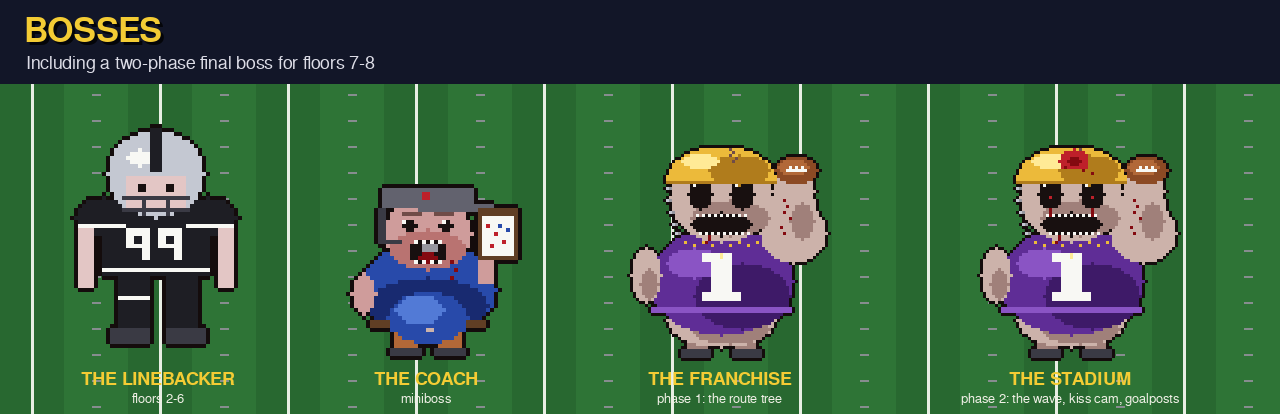
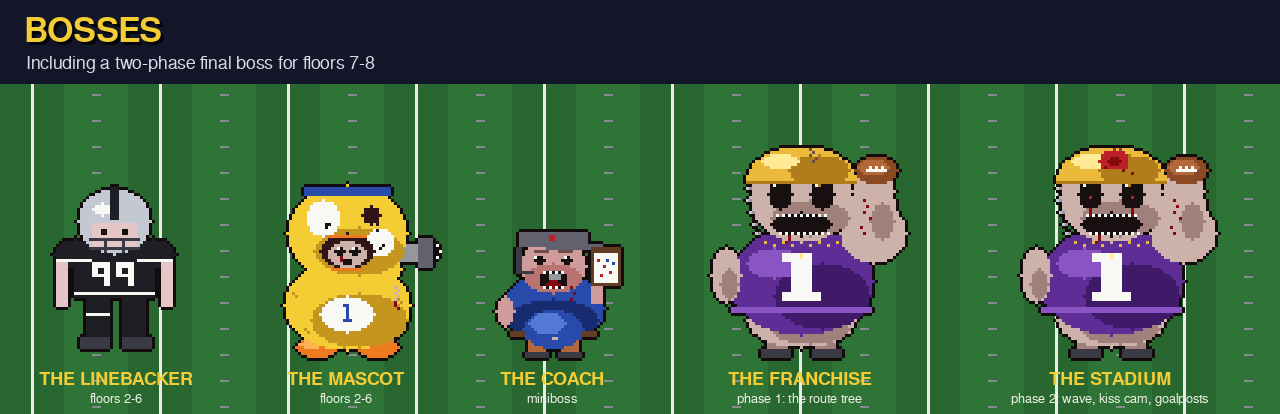
The Mascot: a mid-game boss with a T-shirt cannon, belly flops and a Spirit Squad
May replace Peep, The Dark One or Polycephalus on floors 2-6 (menu slider).
Sheds smaller Mascots at 75/50/25% health, uses the Linebacker theme, gets
stadium banners, and is spawnable with 'gridiron spawn mascotboss'.

Claude-Session: https://claude.ai/code/session_01SDCta5dxMaVUtMhVsYXLuG

diff --git a/tools/make_entities.py b/tools/make_entities.py
@@ -567,6 +567,67 @@ def franchise(pose, frame=0):
     return rows_of(outline(g))
 
 
+# --- The Mascot (boss, 64x64): a giant mascot costume, the gaper inside staring out of its mouth ---
+def mascot_boss(pose, frame=0):
+    g = blank(64)
+    bob = frame % 2
+    squash = {"land": 6, "jump": -6}.get(pose, 0)
+    lift = 8 if pose == "jump" else 0
+    by = 40 + bob + squash - lift
+    # big orange feet
+    if pose != "jump":
+        ellipse(g, 22, 58, 7, 3.5, "O")
+        ellipse(g, 42, 58, 7, 3.5, "O")
+        ellipse(g, 20, 57, 4, 1.5, "P")
+    # furry, mangy body
+    ellipse(g, 32, by + 4, 21, 15, "Y")
+    ellipse(g, 36, by + 9, 16, 9, "y")                                    # shade (no ink)
+    for x, y in ((14, by), (49, by + 2), (18, by + 12), (46, by + 13), (30, by + 17)):
+        put(g, [(x, y), (x + 1, y + 1)], "y")                                # fur tufts
+    ellipse(g, 32, by + 7, 9, 6, "W")                                     # belly patch with a number
+    put(g, [(31, by + 4), (32, by + 4), (32, by + 5), (32, by + 6), (32, by + 7), (32, by + 8), (31, by + 9),
+            (32, by + 9), (33, by + 9)], "B")
+    # torn seam on the side: flesh and blood inside
+    put(g, [(48, by - 2), (49, by - 1), (48, by), (49, by + 1), (48, by + 2)], "q")
+    put(g, [(48, by + 3), (48, by + 4), (49, by + 5)], "i")
+    # arms: pom-pom paws, or the t-shirt cannon raised
+    if pose == "shoot":
+        rect(g, 46, by - 16, 58, by - 11, "m")                            # cannon held high
+        rect(g, 56, by - 18, 60, by - 9, "N")
+        ellipse(g, 46, by - 8, 4, 4, "Y")
+        put(g, [(62, by - 16), (63, by - 14), (62, by - 12)], "W")         # puff
+    else:
+        up = 10 if pose in ("jump", "land") else 0
+        ellipse(g, 11, by + 2 - up, 5, 5, "Y")
+        ellipse(g, 53, by + 2 - up, 5, 5, "Y")
+    # the huge costume head
+    hy = by - 20
+    ellipse(g, 32, hy, 20, 16, "Y")
+    ellipse(g, 36, hy + 6, 15, 8, "y")
+    rect(g, 18, hy - 15, 46, hy - 13, "B")                                # team headband
+    # googly eyes: one fine, one hanging off by a thread
+    ellipse(g, 24, hy - 5, 5.5, 6, "W")
+    put(g, [(25, hy - 3), (26, hy - 3), (25, hy - 2)], "e")
+    ellipse(g, 43, hy + 3 + bob, 4.5, 4.5, "W")                           # dangling
+    put(g, [(44, hy + 4 + bob), (43, hy + 5 + bob)], "e")
+    put(g, [(41, hy - 5), (42, hy - 3), (42, hy - 1)], "k")               # the thread
+    ellipse(g, 40, hy - 6, 3, 3, "D")                                     # the empty socket
+    # the costume's mouth gapes open: the gaper inside stares out
+    ellipse(g, 32, hy + 6, 9, 6, "D")
+    ellipse(g, 32, hy + 7, 6.5, 4.5, "q")
+    ellipse(g, 29.5, hy + 6, 1.6, 2, "e")
+    ellipse(g, 34.5, hy + 6, 1.6, 2, "e")
+    put(g, [(29, hy + 5), (34, hy + 5)], "W")
+    ellipse(g, 32, hy + 9.5, 1.4, 1, "e")
+    put(g, [(30, hy + 8), (30, hy + 9)], "i")
+    rect(g, 26, hy + 1, 38, hy + 1, "O")                                  # the beak, split open
+    rect(g, 27, hy + 12, 37, hy + 12, "O")
+    if pose == "hurt":
+        for x, y in ((10, hy - 10), (54, hy - 6), (8, by + 6), (56, by + 10)):
+            put(g, [(x, y), (x + 1, y), (x, y + 1)], "Y")                   # fur flying off
+    return rows_of(outline(g))
+
+
 # --- The Linebacker (boss, 64x64) -----------------------------------------------
 def linebacker(pose, frame=0):
     """Rival-team linebacker: silver helmet, black #99 jersey, huge pads."""
@@ -690,6 +751,13 @@ ENTITIES = {
         anims={"Idle": ([0, 1], 10, True), "Wind": ([2], 1, True), "Throw": ([3], 1, True),
                "Audible": ([4], 1, True), "Slam": ([5], 1, True), "Rage": ([6, 7], 6, True),
                "RageWind": ([8], 1, True), "RageThrow": ([9], 1, True)},
+    ),
+    "bosses/gridiron_mascot_boss": dict(
+        size=64, pivot=(32, 60),
+        frames=[mascot_boss("idle", 0), mascot_boss("idle", 1), mascot_boss("shoot", 0), mascot_boss("shoot", 1),
+                mascot_boss("jump", 0), mascot_boss("land", 0), mascot_boss("hurt", 0)],
+        anims={"Idle": ([0, 1], 10, True), "Shoot": ([2, 3], 6, True), "Jump": ([4], 1, True),
+               "Land": ([5], 1, True), "Hurt": ([6, 0], 4, False)},
     ),
     "bosses/gridiron_linebacker": dict(
         size=64,

diff --git a/tools/make_showcase.py b/tools/make_showcase.py
@@ -159,15 +159,17 @@ def enemies_sheet():
 
 
 def bosses_sheet():
-    lb = px(frame(GFX / "bosses/gridiron_linebacker.png", 0, 64), 4)
+    lb = px(frame(GFX / "bosses/gridiron_linebacker.png", 0, 64), 3)
+    mb = px(frame(GFX / "bosses/gridiron_mascot_boss.png", 2, 64), 3)
     fr1 = px(frame(GFX / "bosses/gridiron_franchise.png", 2, 80), 3)
     fr2 = px(frame(GFX / "bosses/gridiron_franchise.png", 8, 80), 3)
-    coach = px(frame(GFX / "monsters/gridiron_coach.png", 2, 48), 4)
+    coach = px(frame(GFX / "monsters/gridiron_coach.png", 2, 48), 3)
     body = turf(1280, 330)
     d = ImageDraw.Draw(body)
-    for img, x, name, blurb in ((lb, 30, "THE LINEBACKER", "floors 2-6"), (coach, 330, "THE COACH", "miniboss"),
-                                (fr1, 600, "THE FRANCHISE", "phase 1: the route tree"),
-                                (fr2, 950, "THE STADIUM", "phase 2: the wave, kiss cam, goalposts")):
+    for img, x, name, blurb in ((lb, 20, "THE LINEBACKER", "floors 2-6"), (mb, 250, "THE MASCOT", "floors 2-6"),
+                                (coach, 480, "THE COACH", "miniboss"),
+                                (fr1, 680, "THE FRANCHISE", "phase 1: the route tree"),
+                                (fr2, 990, "THE STADIUM", "phase 2: wave, kiss cam, goalposts")):
         body.alpha_composite(img, (x, 280 - img.height))
         d.text((x + img.width // 2, 286), name, font=font(18), fill=GOLD, anchor="ma")
         d.text((x + img.width // 2, 308), blurb, font=font(13, False), fill=(240, 240, 230), anchor="ma")

diff --git a/tools/make_sprites.py b/tools/make_sprites.py
@@ -392,7 +392,9 @@ def ellipse(g, cx, cy, rx, ry, ch):
 
 def put(g, points, ch):
     for x, y in points:
-        g[round(y)][round(x)] = ch
+        x, y = round(x), round(y)
+        if 0 <= y < len(g) and 0 <= x < len(g[0]):        # quietly skip pixels off the canvas
+            g[y][x] = ch
 
 
 def outline(g, ch="K"):

diff --git a/README.md b/README.md
@@ -8,7 +8,7 @@
 
 **Gridiron** suits Isaac up for football. Every item is real gear with its own mechanic: no reskins, no stat-only filler, nothing replaced.
 Tackle with the helmet, deflect with the pads, catch with the gloves, punt with the tee, and when you're wearing three pieces you're **Suited Up**.
-Then take on a rival Linebacker, a stadium full of grotesque football enemies, and **The Franchise**.
+Then take on a rival Linebacker, a giant Mascot, a stadium full of grotesque football enemies, and **The Franchise**.
 
 **[⬇ Download the latest release](https://github.com/bulmaspanties/tboifbm/releases/latest)**, unzip it into your `mods` folder, and enable **Gridiron**.
 
@@ -20,13 +20,13 @@ Then take on a rival Linebacker, a stadium full of grotesque football enemies, a
 - **All-Pro** transformation, a **Halftime show** event, **completion notes**, and dozens of **base-game synergies**
 - **Football in the basement**: some rooms are dressed with faded field paint, sideline junk, goalposts and benches
 - **Juiced**: steroids make tackles brutal (enemies pinball into each other), but the referees run drug tests
-- **Boss themes** for the Linebacker and The Franchise: marching drumlines, brass, organ and a dark choir
+- **Boss themes** for the Linebacker, The Mascot and The Franchise: marching drumlines, brass, organ and a dark choir
 - **Stadium sounds**, a settings menu (press **C**), External Item Descriptions support, and save & continue
 
 <p align="center"><img src="docs/characters.png" alt="The Quarterback, Tainted QB, The Kicker and Tainted Kicker"></p>
 <p align="center"><img src="docs/items.png" alt="Every item and trinket"></p>
 <p align="center"><img src="docs/enemies.png" alt="The football enemies"></p>
-<p align="center"><img src="docs/bosses.png" alt="The Linebacker, the Coach and The Franchise"></p>
+<p align="center"><img src="docs/bosses.png" alt="The Linebacker, The Mascot, the Coach and The Franchise"></p>
 <p align="center"><img src="docs/uniforms.png" alt="Uniform colours"></p>
 <p align="center"><img src="docs/decor.png" alt="Football props in a basement room"></p>
 
@@ -186,6 +186,7 @@ Every Gridiron character (all six) tracks the vanilla marks: **Mom's Heart, Isaa
 | Entity | Where | What it does |
 |---|---|---|
 | **The Linebacker** (boss) | May replace Monstro, Gurdy, Gurdy Jr., Duke of Flies or Dingle on floors 2–6 (25%) | Walks you down, then either **telegraphs a charge** (crouches and flashes) and blitzes across the room, getting **stunned** if he hits a wall, or **spikes a football** that bursts into shots. Below half health he enrages: faster, plus a **pile-up jump** that lands with a ring of shots. |
+| **The Mascot** (boss) | May replace Peep, The Dark One or Polycephalus on floors 2–6 (25%) | The team's giant costumed hype-man. Waddles after you, fires the **T-shirt cannon** (two volleys, the second fanned wider) and **belly-flops** across the room, landing with a ring of shots. At 75%, 50% and 25% health the costume **sheds smaller Mascots** (the Spirit Squad). Beat him and he's **unmasked**. |
 | **The Franchise** (final boss) | May replace Loki, Blastocyst, Daddy Long Legs or Mama Gurdy on floors 7–8 (20%) | A bloated giant quarterback with one monstrous throwing arm. **Phase 1** runs a route tree: **slants** (curving balls), the **go route** (a fast bomb and its wake), a **screen pass** (a short fan), a **Hail Mary** (a bursting lob at your feet) and **audibles** that bring in Linemen. **Phase 2, the Stadium** (below half health): he holds the far end of the field while the crowd does **the wave** (a sweeping line of shots with one gap), the **Kiss Cam** locks onto you and explodes, and **goalposts** come crashing down along marked columns. |
 | **Mascot** | Gaper | A costume coming apart at the seams. Waddles toward you and fires big, slow **T-shirt cannon** shots. |
 | **Referee** | Horf | Wide-eyed and unhinged. Keeps his distance, blows his whistle and **throws yellow flags** at you. |
@@ -254,7 +255,7 @@ If **External Item Descriptions** is installed, every item shows its description
 
 ## Settings menu
 Gridiron adds a page to the **Dead Sea Scrolls** menu (press **C** in a run, or the key you've set):
-- **gameplay:** Gridiron items on/off and Q4 legends on/off (for new runs), tackle windup, facemask block %, pad deflect %, glove catch %, pants shrug-off %, yards per first down, kick damage, drug tests, Franchise boss chance, Pro Shop chance, halftime show chance, Linebacker boss chance, football-enemy chance, reset to defaults
+- **gameplay:** Gridiron items on/off and Q4 legends on/off (for new runs), tackle windup, facemask block %, pad deflect %, glove catch %, pants shrug-off %, yards per first down, kick damage, drug tests, Franchise boss chance, Mascot boss chance, Pro Shop chance, halftime show chance, Linebacker boss chance, football-enemy chance, reset to defaults
 - **visuals:** costumes on/off, Suited Up glow, HUD text (down & distance, current play, bucket fill), popup text (callouts like TACKLE!, IT'S GOOD!, FUMBLE!), crowd sounds (cheers, boos, the stadium horn and the scoring fanfare), boss music, field decor (off / light / full)
 - **uniform:** by default (**auto**) every character suits up in **their own colours**: Magdalene in pink and white, Judas in black and red, Cain in green and gold, Keeper in gold and money green, Blue Baby in blues, the tainted characters in darker, meaner versions, and so on. Or pick your team colours yourself: **helmet** shell, **jersey** (the trim and sleeve stripes match) and **pants**, eleven colours each (red, blue, navy, green, orange, purple, gold, black, silver, white, pink); **team defaults** puts everything back on auto. Helmet and Team Jersey **pedestals** show your colours too (except where the item could be hidden: Curse of the Blind and the alt-floor "?" treasure items)
 - **completion notes:** the marks each Gridiron character has earned
@@ -274,7 +275,7 @@ Open the debug console with `~`:
 | `gridiron give` | Drops every item as a pedestal on the open floor around you, one every couple of frames. Walk over them: picking an item up is what adds it to your collection and the pause screen's *My Stuff* list |
 | `gridiron give quick` | Gives every passive instantly (they show as "?" in *My Stuff* until you find them for real); drops actives and trinkets |
 | `gridiron boss` / `gridiron enemies` | Spawn the Linebacker, or a Mascot and a Referee, next to you |
-| `gridiron spawn <name>` | Spawn one football enemy: `mascot referee lineman blitzer punter huddle cooler chaingang sacker coach linebacker franchise` |
+| `gridiron spawn <name>` | Spawn one football enemy: `mascot referee lineman blitzer punter huddle cooler chaingang sacker coach linebacker mascotboss franchise` |
 | `gridiron hide <slot>` / `gridiron show <slot>` | Hide/show a costume piece for your current character (`helmet`, `eyeblack`, `torso`, `legs`) |
 | `gridiron reset` | Reset all settings to defaults |
 
@@ -339,6 +340,7 @@ scripts/familiars.lua           Cheerleader, Water Boy, Tackling Dummy
 scripts/monsters.lua            the Linebacker, Mascot, Referee, enemy spawn swaps
 scripts/foes.lua                Lineman, Blitzer, Punter, Huddle, Cooler, Chain Gang, Sacker, Coach, Team Captains
 scripts/franchise.lua           The Franchise (two-phase final boss)
+scripts/mascotboss.lua          The Mascot (boss)
 scripts/quarterback.lua         The Quarterback + Tainted
 scripts/kicker.lua              The Kicker + Tainted
 scripts/halftime.lua            the Halftime show event
